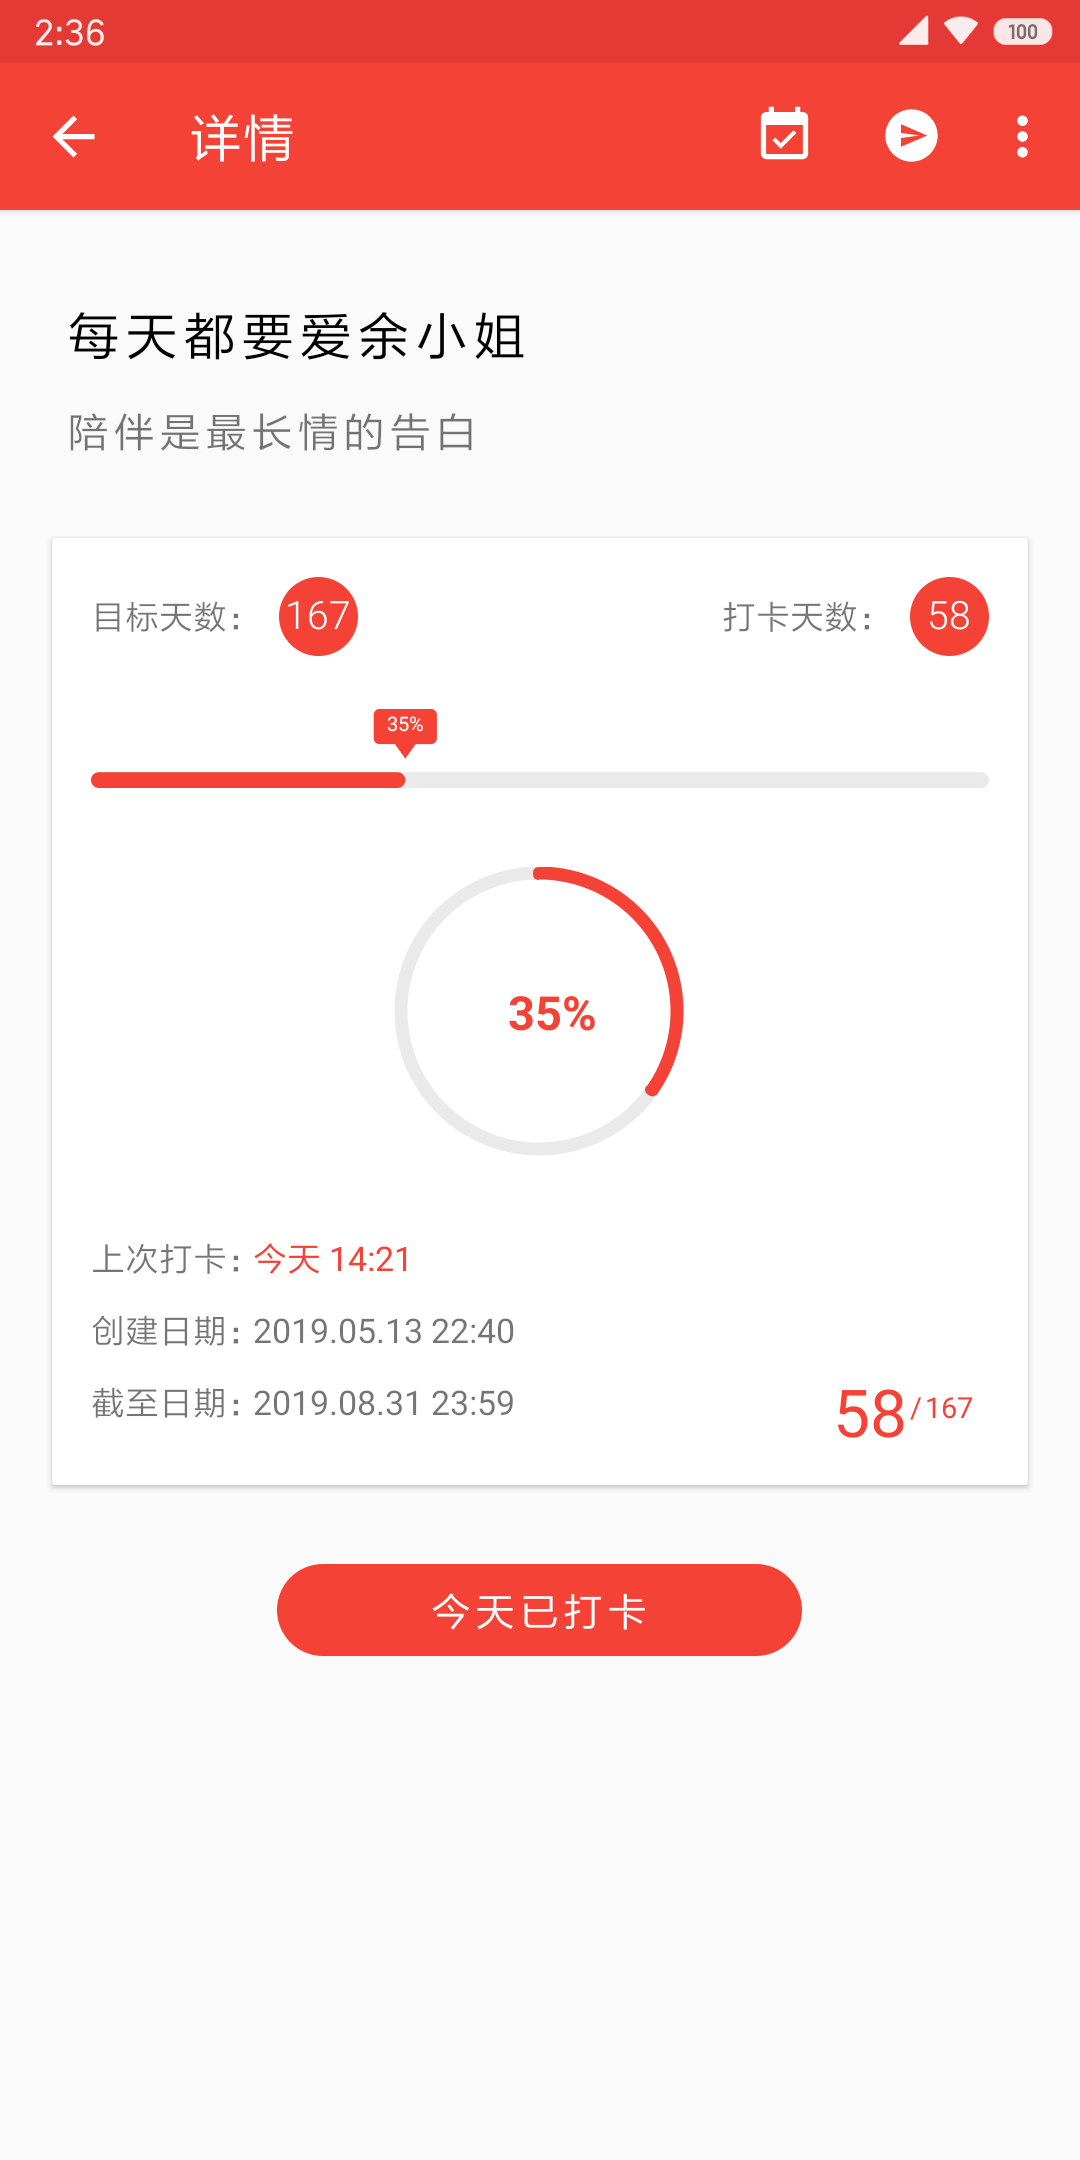
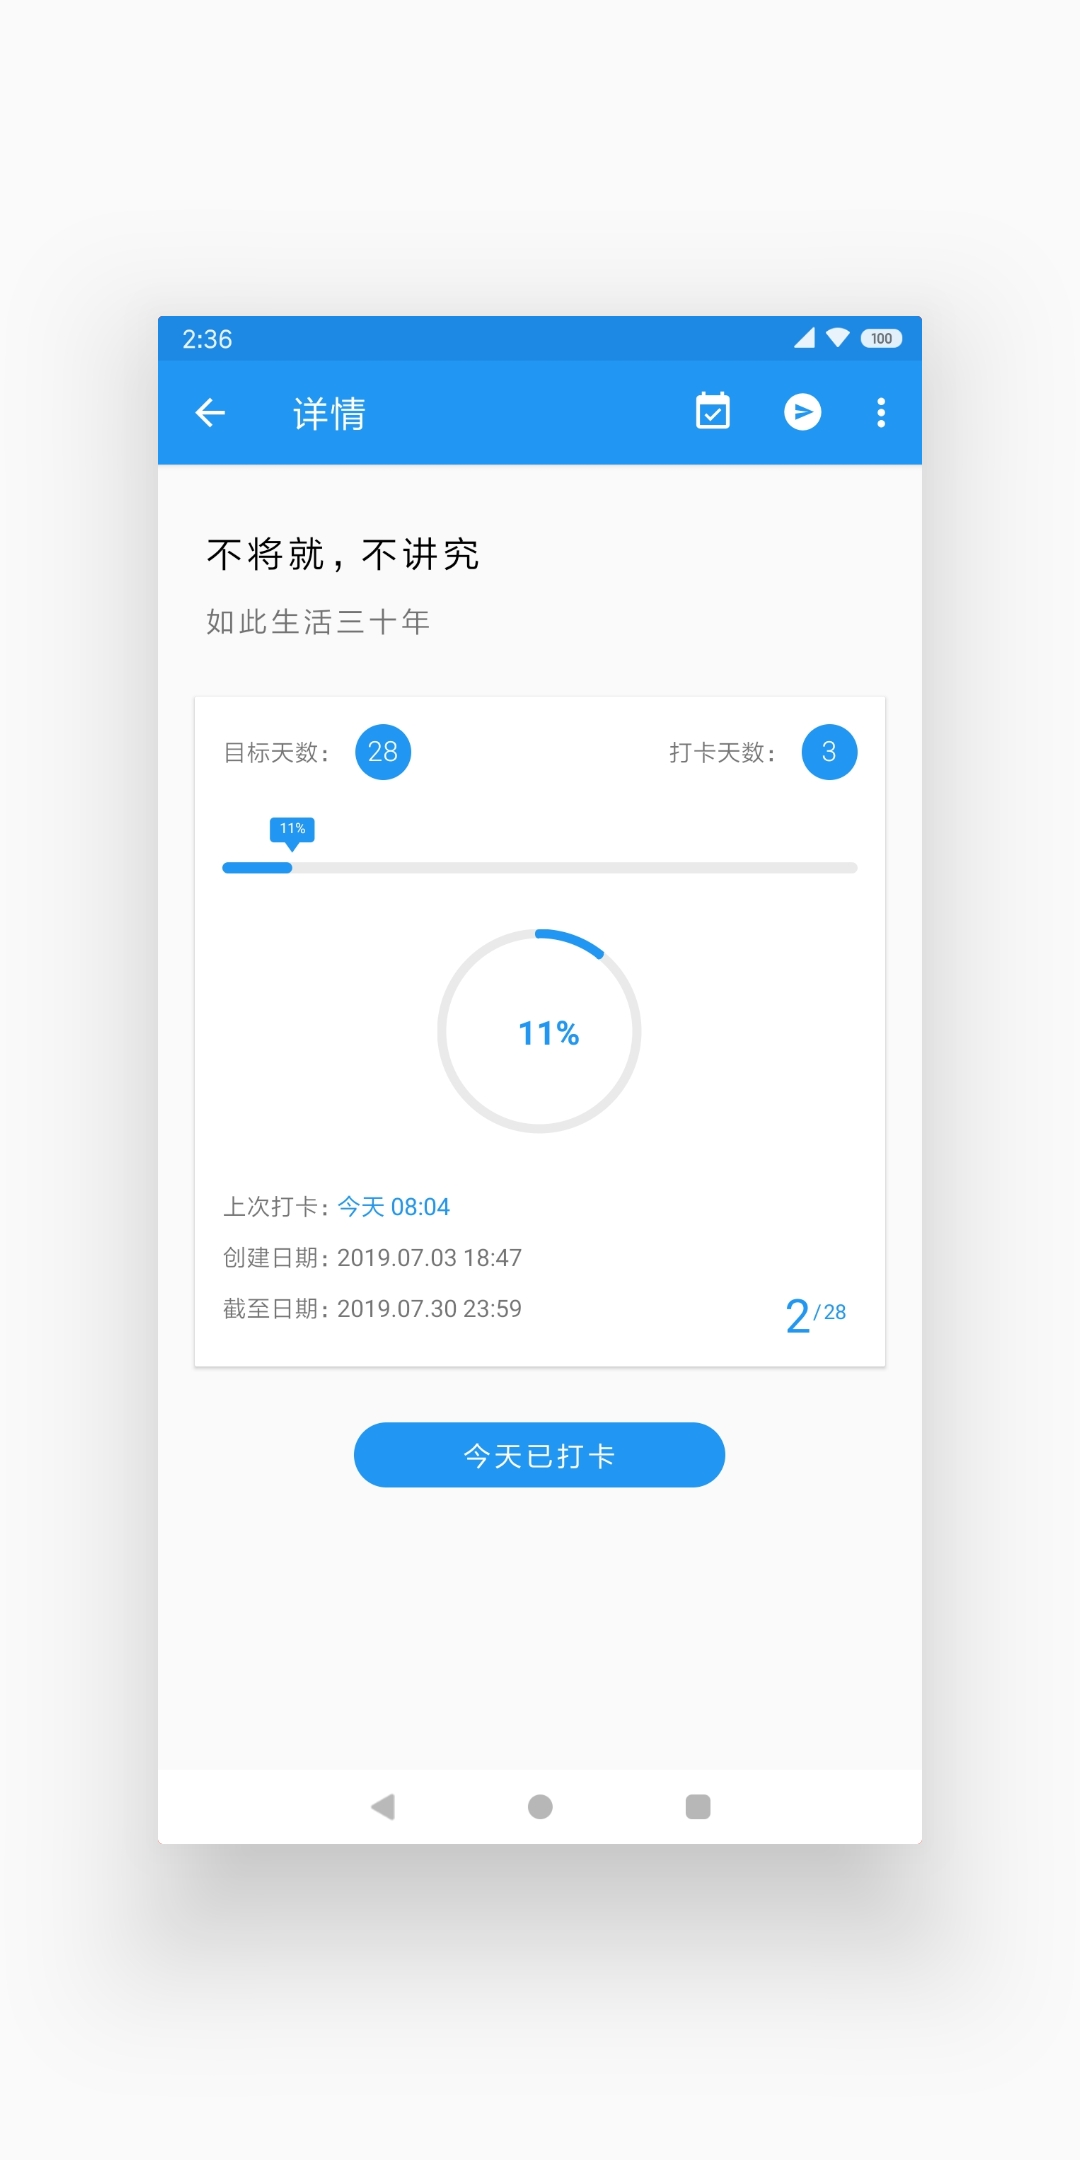
2.9.3

diff --git a/index.html b/index.html
@@ -88,7 +88,7 @@
             position: relative;
             margin: 5px 12px 5px;
             border-radius: 1px;
-            box-shadow: rgba(0, 0, 0, 0.35) 0 0 5px;
+            /* box-shadow: rgba(0, 0, 0, 0.35) 0 0 5px; */
         }
 
         div.content{
@@ -102,12 +102,12 @@
             font-size: 12px;
             letter-spacing: 2.5px;
             box-shadow: inset 0 1px 0 rgba(255, 255, 255, 0.05), 0 1px 2px rgba(0, 0, 0, 0.05);
-            background: #f44336;
-            border: 1px solid #f44336;
+            background: #2196f3;
+            border: 1px solid #2196f3;
             /*padding: 15px 22px 15px 50px;*/
             padding: 10px 15px 10px 50px;
             position: relative;
-            text-shadow: 0 1px 0 #f44336;
+            text-shadow: 0 1px 0 #2196f3;
         }
 
         .download {
@@ -148,7 +148,7 @@
     <p id="app-desc">定个小目标，比如先挣它一个亿</p>
 
     <div id="play-store">
-        <a class="btn btn-info btn-radius inverse download android" target="_blank" href="https://www.coolapk.com/apk/cn.xyiio.target">下载 Android 2.9.1 版本</a>
+        <a class="btn btn-info btn-radius inverse download android" target="_blank" href="https://www.coolapk.com/apk/cn.xyiio.target">下载 Android 2.9.3 版本</a>
     </div>
 
         <div class="screens">
